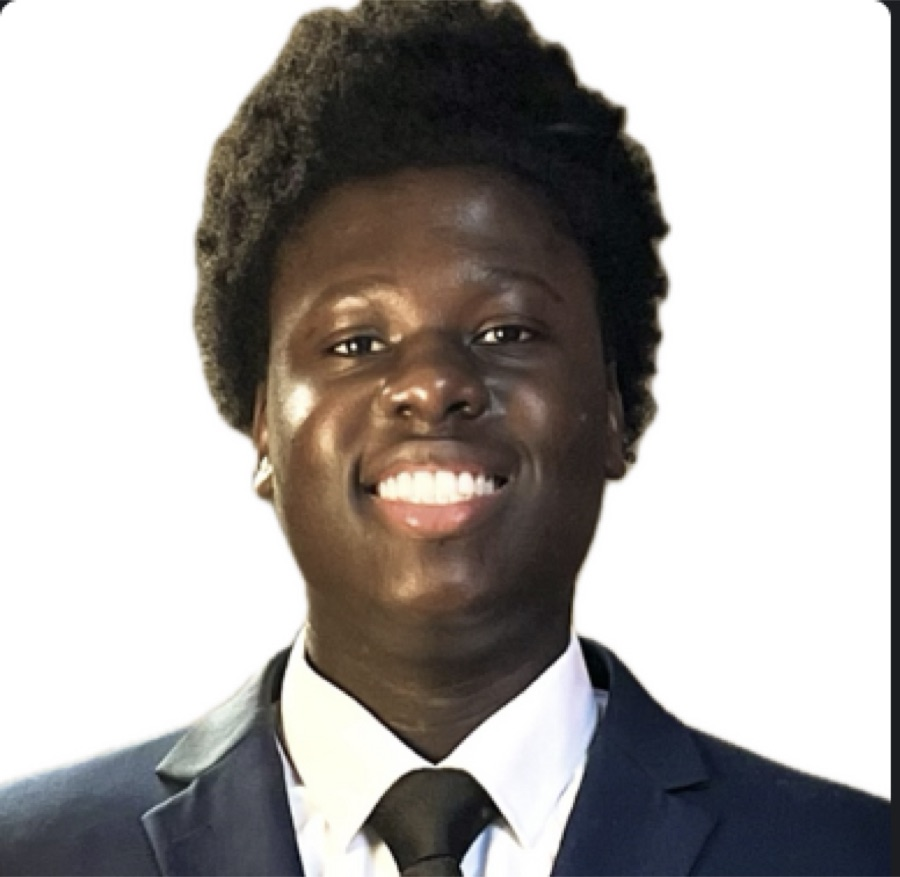
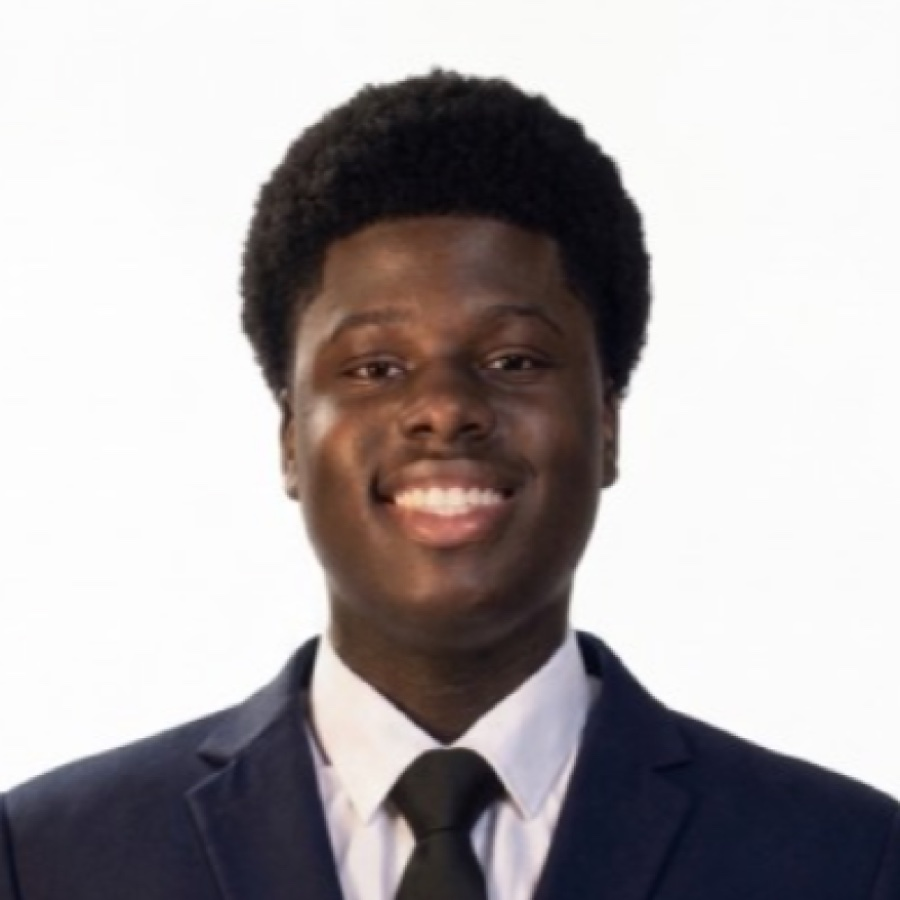
content: add Eric Ye & Jaimie Wu headshots, refresh Akhil & Oluwatomisin
- Add headshots for alumni Eric Ye and Jaimie Wu (photo field + 900x900 jpg).
- Replace Akhil Jonnalagadda and Oluwatomisin Abiola headshots with new
  900x900 crops (matches the board photo dimensions).
- Remove Aditya Mehta from the e-board.
- Drop the dev "Add a video URL in ..." placeholder line from the Media page.

Bumps service worker cache to akpsi-v21.

diff --git a/src/data/members.ts b/src/data/members.ts
@@ -40,7 +40,6 @@ const rawMembers: Omit<Member, "slug">[] = [
   { id: "b3", name: "Prakruti Ankem", position: "Vice President of Operations", group: "board", cohort: "Beta Founding", classYear: "2028", photo: "/members/prakruti-ankem.jpg" },
   { id: "b4", name: "Marvin Patel", position: "Vice President of Finance", group: "board", cohort: "Beta Founding", classYear: "2028", photo: "/members/marvin-patel.jpg" },
   { id: "b5", name: "Ankitha Jagadeesh", position: "Vice President of Membership", group: "board", cohort: "Beta Founding", classYear: "2028", photo: "/members/ankitha-jagadeesh.jpg" },
-  { id: "b6", name: "Aditya Mehta", position: "Vice President of Marketing", group: "board", cohort: "Beta Founding", classYear: "2027", photo: "/members/aditya-mehta.jpg" },
   { id: "b7", name: "Ashna Narielwala", position: "Vice President of Alumni Relations", group: "board", cohort: "Beta Founding", classYear: "2028", photo: "/members/ashna-narielwala.jpg" },
   { id: "b8", name: "Simone Mehta", position: "Vice President of Risk Management", group: "board", cohort: "Beta Founding", classYear: "2028", photo: "/members/simone-mehta.jpg" },
   { id: "b9", name: "Mahir Varanasi", position: "Vice President of Internal Affairs", group: "board", cohort: "Beta Founding", classYear: "2028", photo: "/members/mahir-varanasi.jpg" },
@@ -96,8 +95,8 @@ const rawMembers: Omit<Member, "slug">[] = [
   { id: "al2", name: "Aryaman Kumar", position: "Alumni", group: "alumni", cohort: "Alpha Founding", classYear: "2026", photo: "/members/aryaman-kumar.jpg" },
   { id: "al3", name: "Alexis Lu", position: "Alumni", group: "alumni", cohort: "Alpha Founding", classYear: "2026", photo: "/members/alexis-lu.jpg" },
   { id: "al4", name: "Chirag Tahiliani", position: "Alumni", group: "alumni", cohort: "Alpha Founding", classYear: "2026", photo: "/members/chirag-tahiliani.jpg" },
-  { id: "al5", name: "Jaimie Wu", position: "Alumni", group: "alumni", cohort: "Alpha Founding", classYear: "2026" },
-  { id: "al6", name: "Eric Ye", position: "Alumni", group: "alumni", cohort: "Alpha Founding", classYear: "2026" },
+  { id: "al5", name: "Jaimie Wu", position: "Alumni", group: "alumni", cohort: "Alpha Founding", classYear: "2026", photo: "/members/jaimie-wu.jpg" },
+  { id: "al6", name: "Eric Ye", position: "Alumni", group: "alumni", cohort: "Alpha Founding", classYear: "2026", photo: "/members/eric-ye.jpg" },
 ];
 
 function slugify(name: string): string {

diff --git a/src/app/media/page.tsx b/src/app/media/page.tsx
@@ -157,9 +157,6 @@ export default function MediaPage() {
                       <p className="mt-3 text-sm font-medium text-white">
                         Rush video coming soon
                       </p>
-                      <p className="mt-1 text-xs text-white/60">
-                        Add a video URL in <code>src/app/media/page.tsx</code>.
-                      </p>
                     </div>
                   </div>
                 )}

diff --git a/public/sw.js b/public/sw.js
@@ -13,7 +13,7 @@
  *
  * Bump CACHE_VERSION on any release to force old caches out.
  */
-const CACHE_VERSION = "akpsi-v20";
+const CACHE_VERSION = "akpsi-v21";
 const PRECACHE = [
   "/",
   "/offline/",
